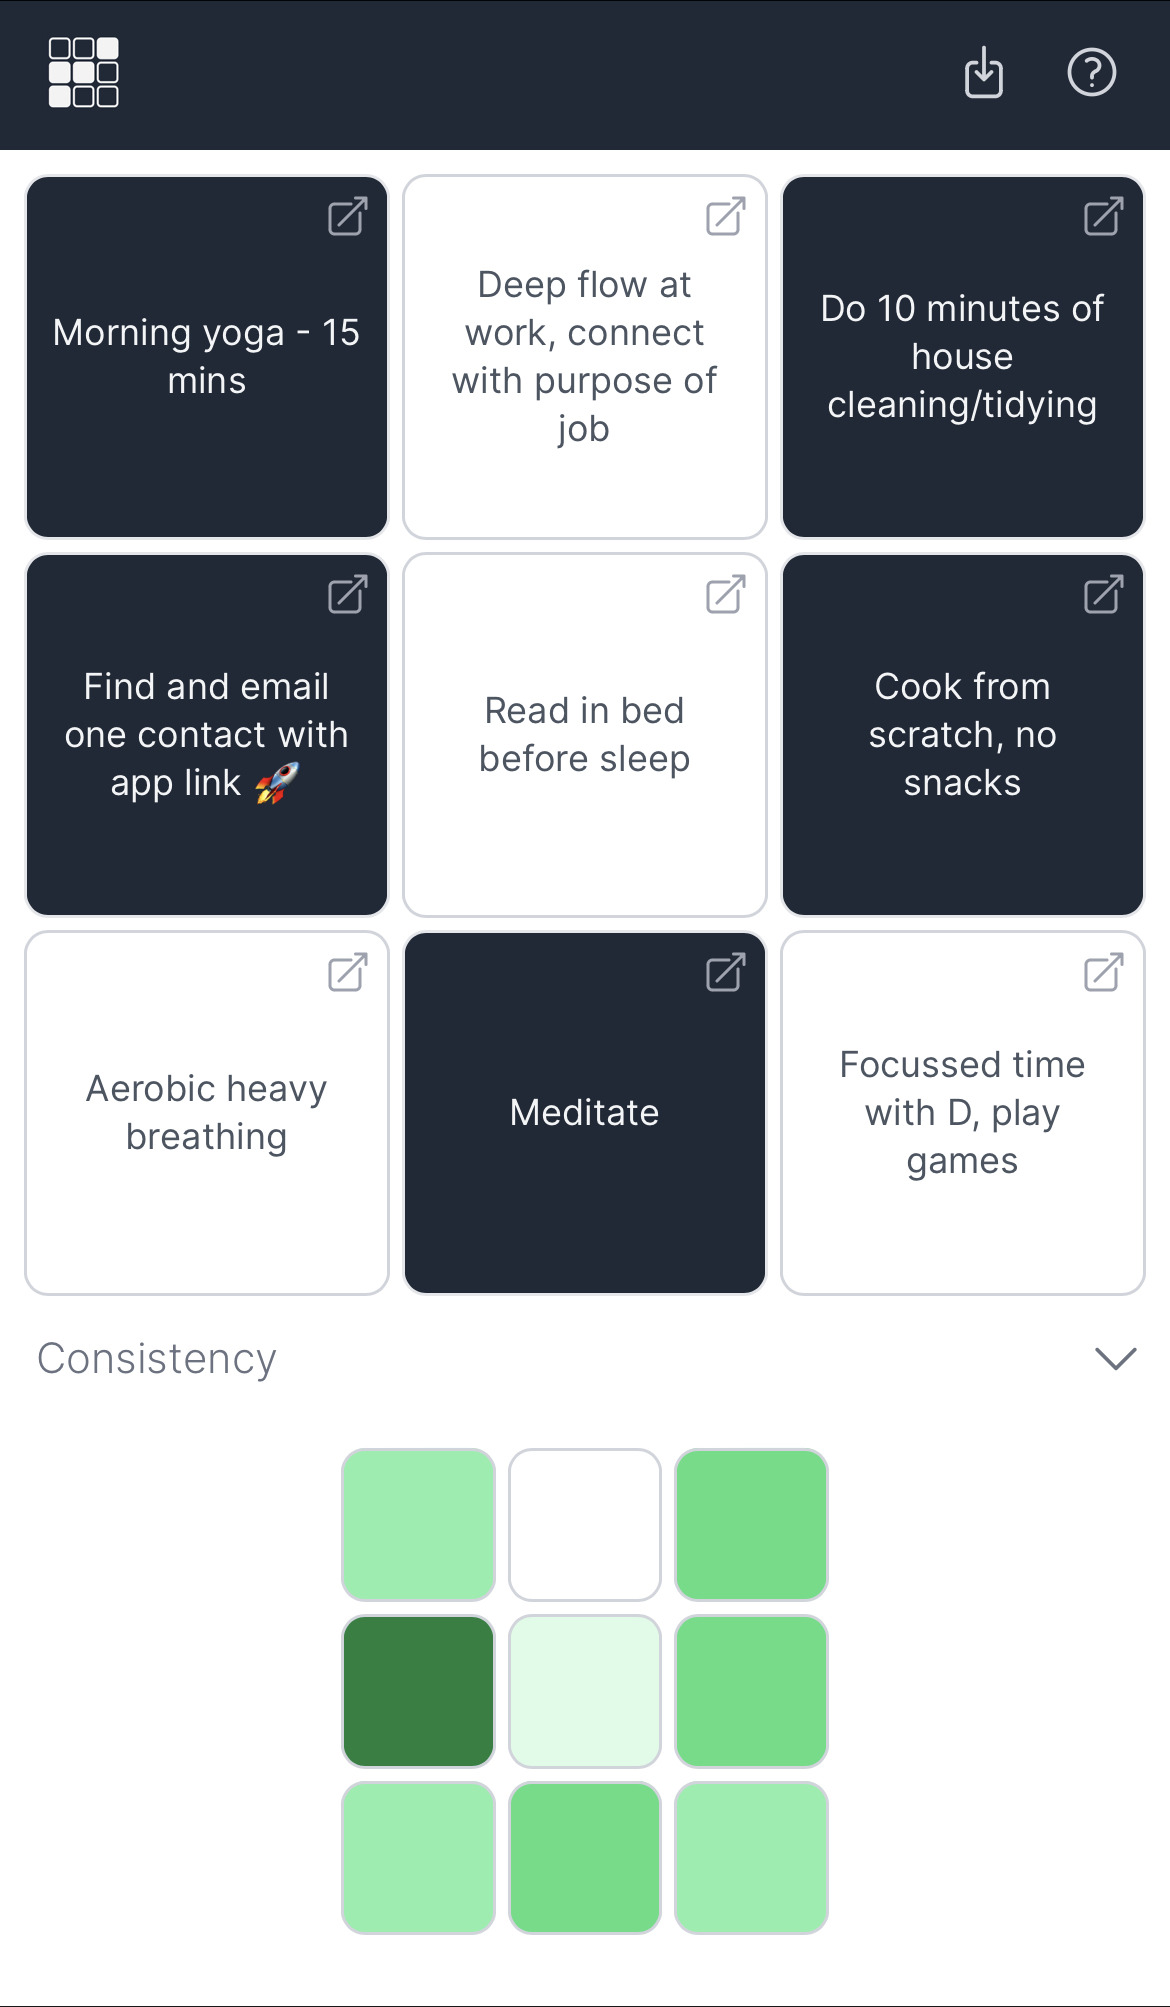
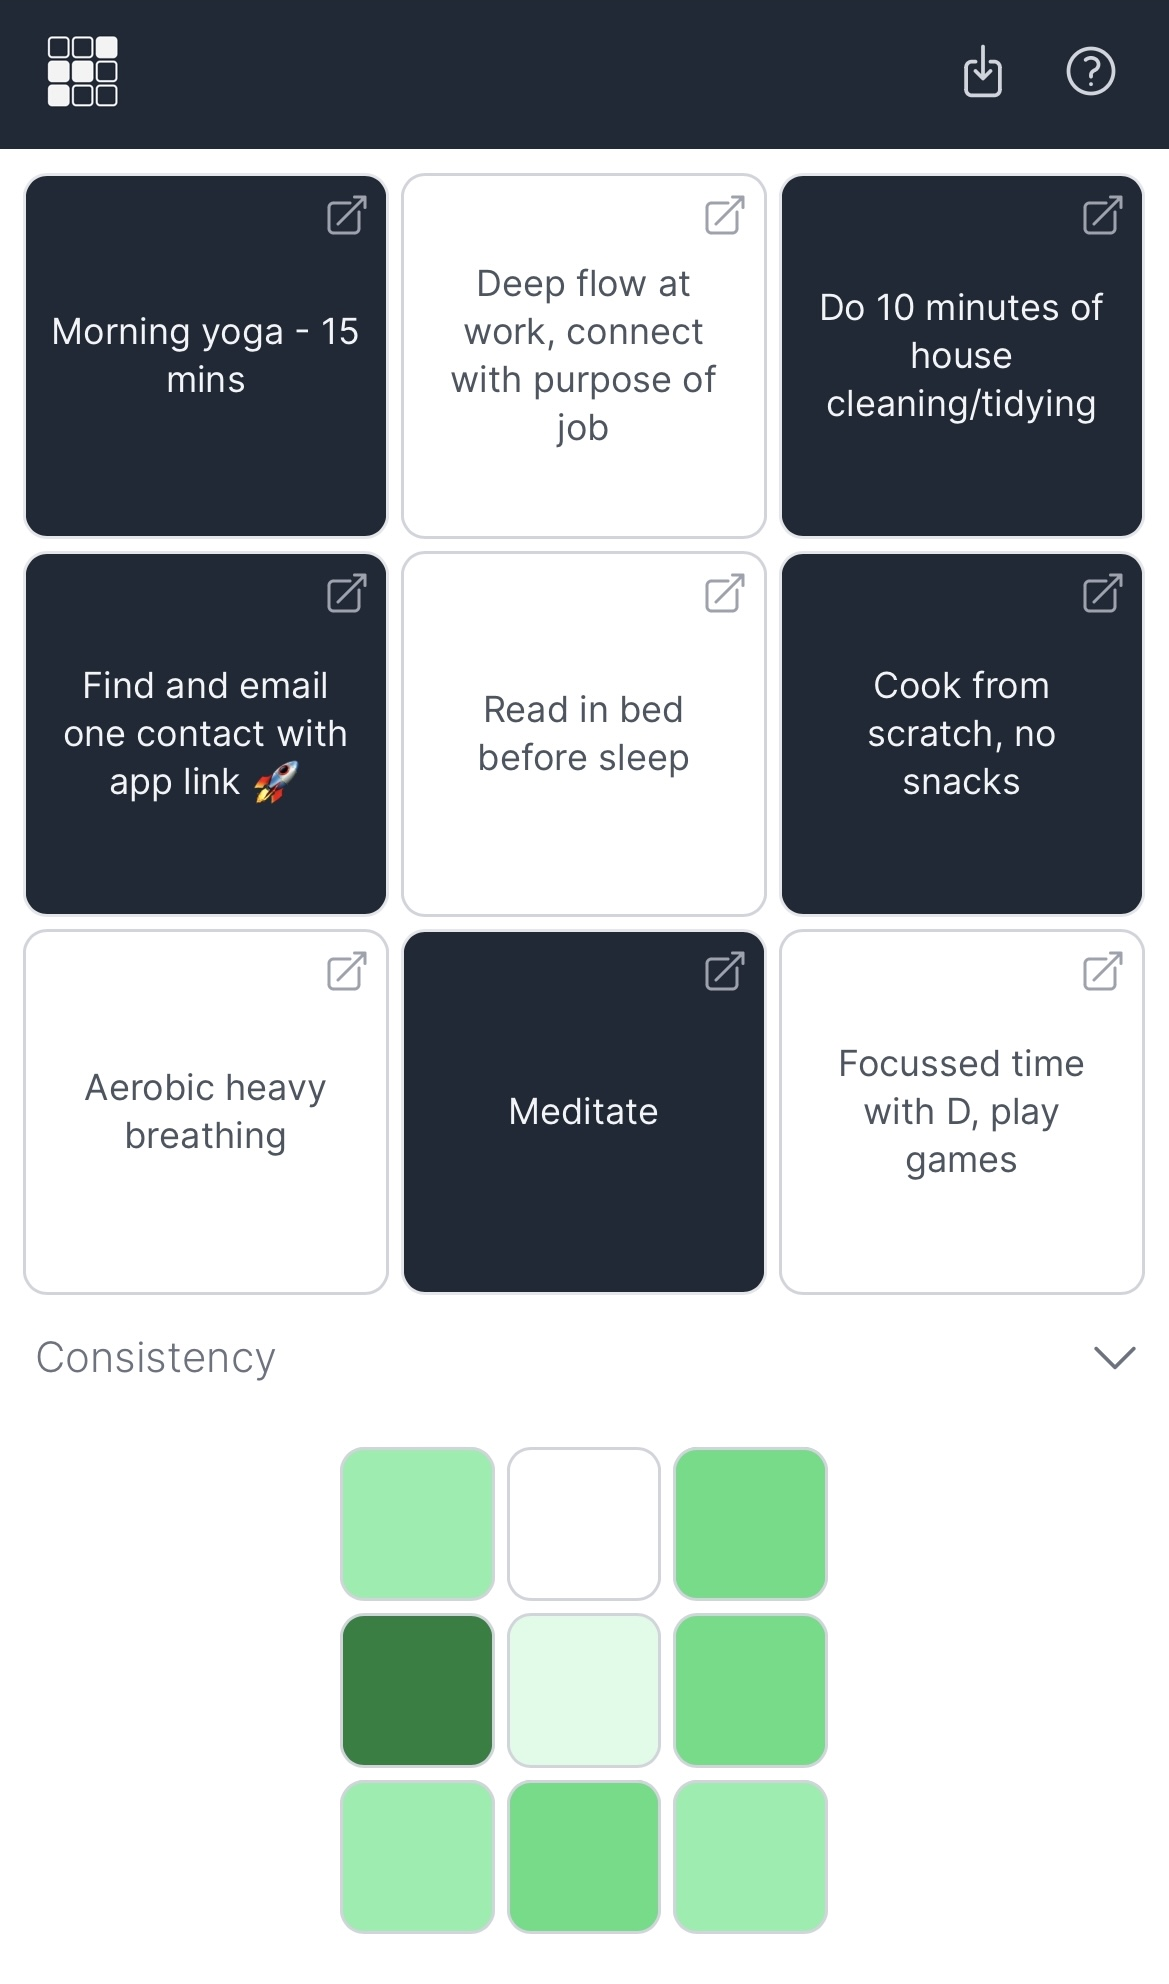
finish install tray, ui tweaks, handle error in getUser() when called from left nav signed out

diff --git a/src/components/InstallPWA.vue b/src/components/InstallPWA.vue
@@ -1,32 +1,38 @@
 <template >
-  <div class="flex flex-col justify-start  space-y-4 h-full text-sm text-gray-500 font-light">
+  <div class="text-xl text-gray-600 font-bold mb-4">Install Nine Panels as an app!</div>
+  <div class="flex flex-col justify-start  space-y-3 h-full text-sm text-gray-500 font-light">
 
-    <div class="text-xl text-gray-600 font-bold mb-4">Install Nine Panels as an app:</div>
-
+    <div class="text-gray-500 ">Easier to find. App-like experience.</div>
     <div class="flex flex-col justify-between items-center">
-      <img src="@/assets/example_install.jpg" class="h-48 border border-gray-400 rounded-xl mb-4" />
+      <img src="@/assets/example_install.jpg" class="h-48 border border-gray-400 rounded-xl mt-2 mb-2" />
     </div>
-    <div class="text-gray-500 text-">FYI: You'll need to sign in again, just like you would if you installed the app via your App or
+    <div class="text-gray-500">FYI: You'll need to sign in again, just like you would if you installed the app via your App or
       Play Store.</div>
-    <div class="text-lg text-gray-600 font-bold">Chrome:</div>
+    <div class="text-lg text-gray-600 font-bold">Chrome on iOS:</div>
     <div class="">Tap share, find the 'Add to Home Screen' button. Add the app.</div>
     <div class="flex flex-col justify-between items-center">
       <img src="@/assets/chrome_1.jpg" class="h-36 border border-gray-400 rounded-xl mb-4" />
       <img src="@/assets/chrome_2.jpg" class="h-36 border border-gray-400 rounded-xl" />
+    </div>
+    <div class="text-lg text-gray-600 font-bold">Chrome on Android:</div>
+    <div class="">Tap the ellipis top-right, find the 'Add to Home Screen' button. Add the app.</div>
+    <div class="flex flex-col justify-between items-center">
+      <img src="@/assets/android_chrome_1.png" class="h-36 border border-gray-400 rounded-xl mb-4" />
+      <img src="@/assets/android_chrome_2.png" class="h-36 border border-gray-400 rounded-xl" />
     </div>
 
     <div class="text-lg text-gray-600 font-bold">Safari:</div>
-    <div class="">Tap share, find the 'Add to Home Screen' button. Add the app.</div>
+    <div class="">Tap share on bottom menu, find the 'Add to Home Screen' button. Add the app.</div>
     <div class="flex flex-col justify-between items-center">
-      <img src="@/assets/chrome_1.jpg" class="h-36 border border-gray-400 rounded-xl mb-4" />
-      <img src="@/assets/chrome_2.jpg" class="h-36 border border-gray-400 rounded-xl" />
+      <img src="@/assets/safari_1.jpg" class="h-36 border border-gray-400 rounded-xl mb-4" />
+      <img src="@/assets/safari_2.jpg" class="h-36 border border-gray-400 rounded-xl" />
     </div>
 
     <div class="text-lg text-gray-600 font-bold">Firefox:</div>
-    <div class="">Tap share, find the 'Add to Home Screen' button. Add the app.</div>
+    <div class="">Tap menu bottom left, tap Share, find the 'Add to Home Screen' button. Add the app.</div>
     <div class="flex flex-col justify-between items-center mb-6">
-      <img src="@/assets/chrome_1.jpg" class="h-36 border border-gray-400 rounded-xl mb-4" />
-      <img src="@/assets/chrome_2.jpg" class="h-36 border border-gray-400 rounded-xl" />
+      <img src="@/assets/firefox_1.jpg" class="h-36 border border-gray-400 rounded-xl mb-4" />
+      <img src="@/assets/firefox_2.jpg" class="h-36 border border-gray-400 rounded-xl" />
     </div>
 
 

diff --git a/src/components/PasswordResetRequestForm.vue b/src/components/PasswordResetRequestForm.vue
@@ -21,14 +21,21 @@
                     is valid for ten minutes.<br /><br />The email will come from
                     <span class="">ben@ninepanels.com.</span> <br /> <br />Feel free to email me if you need any help. 👍
                 </div>
+                <div class="flex justify-between">
+                    <div class="font-semibold text-xs text-gray-500">
+                        <router-link :to=" { name: 'SignUp' }">Sign in instead</router-link>
+                    </div>
+                    <div class="font-semibold text-xs text-gray-500">
+                        <router-link :to=" { name: 'SignUp' }">Need an account?</router-link>
+                    </div>
+                </div>
             </form>
-            <div v-else class="font-bold text-lg text-gray-500 ">
+            <div v-else class="font-bold text-lg text-gray-500 mt-20">
                 An email is winging it's way to you now.
                 <div class="text-sm font-light mt-2">Click the link within ten minutes.</div>
-                <div class="text-sm font-light mt-2">See you back here soon.</div>
                 <div class="flex justify-center">
-                    <img class="h-36 mt-20 w-auto" src="@/assets/9p-logo-empty-gray-500.png"
-                        alt="9P logo" />
+                    <img class="h-36 mt-6 mb-4 w-auto rounded-2xl" src="/android-chrome-512x512.png"
+                    alt="9P logo" />
 
                 </div>
             </div>

diff --git a/src/components/PanelDetail.vue b/src/components/PanelDetail.vue
@@ -38,8 +38,8 @@
 
 
     </div>
-    <div :class="{ 'mb-2': this.Store.isPWA}">
-      <button @click="this.toggleDeleteResetBox()" class="flex w-full justify-between items-center mt-5" >
+    <div :class="{ 'mb-4': this.Store.isPWA}">
+      <button @click="this.toggleDeleteResetBox()" class="flex w-full justify-between items-center mt-5 " >
         <div class="data-heading">Danger Zone</div>
         <div>
 
@@ -48,11 +48,11 @@
         </div>
       </button>
       <div v-if="this.Store.deleteResetBoxIsOpen" >
-        <div class="text-xs text-gray-500 font-light">Need a fresh start on this panel? Reset the completion history and clear all your stats:</div>
+        <div class="text-xs text-gray-500 font-light mt-2">Need a fresh start on this panel? Reset the completion history and clear all your stats:</div>
         <DynamicButton class="mt-2 mb-2" :parentMethod="sendEntriesDelete" :buttonText="'Reset stats history'"
           :confirmRequired="true" :confirmText="'Reset all stats?'" />
         <div class="text-xs text-gray-500 font-light">Delete the entire panel, including all completion history:</div>
-        <DynamicButton class="mt-2 mb-4" :parentMethod="sendPanelDelete" :buttonText="'Delete panel'"
+        <DynamicButton class="mt-2 mb-4 " :parentMethod="sendPanelDelete" :buttonText="'Delete panel'"
           :confirmRequired="true" :confirmText="'Delete forever?'" />
       </div>
 

diff --git a/src/components/SignUpForm.vue b/src/components/SignUpForm.vue
@@ -1,5 +1,5 @@
 <template>
-    <div class="flex min-h-full flex-col justify-between px-4 py-6 mt-4  ">
+    <div class="flex min-h-full flex-col justify-between px-4   ">
 
             <div class="bg-white py-4 sm:rounded-lg sm:px-10 ">
                 <form @submit.prevent="onSubmit" class="space-y-4" action="#" method="POST">
@@ -66,10 +66,10 @@
                         little cookie being stored on your device (so you can be kept logged in between visits).</div>
                 </form>
                 <div class="flex justify-between mt-6">
-                    <div class="font-light text-xs text-gray-500">
+                    <div class="font-semibold text-xs text-gray-500">
                         <router-link :to=" { name: 'SignIn' }">Sign in instead</router-link>
                     </div>
-                    <div class="font-light text-xs text-gray-500">
+                    <div class="font-semibold text-xs text-gray-500">
                         <router-link :to=" { name: 'PasswordReset' }">Forgot your password?</router-link>
                     </div>
                 </div>

diff --git a/src/components/LeftNav.vue b/src/components/LeftNav.vue
@@ -32,7 +32,7 @@
                 <div class="flex justify-between">
 
                   <router-link @click="this.Store.leftNavIsOpen = false; this.Store.shareBoxIsOpen = false"
-                    :to="{ name: 'Landing' }"><img class="h-7 ml-5 w-auto" src="/android-chrome-512x512.png"
+                    :to="{ name: 'Landing' }"><img class="h-8 ml-5 w-auto" src="/android-chrome-512x512.png"
                       alt="9P logo" />
                   </router-link>
                   <button v-if="this.Store.isPWA" @click="reloadApp()">
@@ -104,7 +104,7 @@
             class="-ml-0.5 -mt-0.5 flex h-12 items-center   justify-center rounded-md text-gray-500 hover:text-gray-900 focus:outline-none "
             @click="this.Store.leftNavIsOpen = true">
             <span class="sr-only">Open sidebar</span>
-            <img class="h-7 ml-3 mb-1" src="/android-chrome-512x512.png" alt="9P logo" />
+            <img class="h-8 ml-3 mb-1" src="/android-chrome-512x512.png" alt="9P logo" />
           </button>
 
           <div class="mt-2.5">

diff --git a/src/components/SignInForm.vue b/src/components/SignInForm.vue
@@ -33,10 +33,10 @@
                     </div>
                 </form>
                 <div class="flex justify-between">
-                    <div class="font-light text-xs text-gray-500">
+                    <div class="font-semibold text-xs text-gray-500">
                         <router-link :to=" { name: 'SignUp' }">Need an account?</router-link>
                     </div>
-                    <div class="font-light text-xs text-gray-500">
+                    <div class="font-semibold text-xs text-gray-500">
                         <router-link :to=" { name: 'PasswordReset' }">Forgot your password?</router-link>
                     </div>
                 </div>

diff --git a/src/stores/store.js b/src/stores/store.js
@@ -113,10 +113,7 @@ export const useStore = defineStore({
                             setTimeout(() => this.messages.shift(), 5000)
                         }
                     })
-            } else {
-                this.messages.push({ message: "There's an issue with your credentials... 😬", error: true })
-                setTimeout(() => this.messages.shift(), 5000)
-            }
+            } 
         },
         async createPanelAction(position, title, description) {
             const access_token = VueCookies.get("9p_access_token")

diff --git a/src/components/PrimaryTray.vue b/src/components/PrimaryTray.vue
@@ -26,7 +26,7 @@
                   </div>
 
                   <div v-if="this.Store.primaryTrayIsOpen && this.Store.primaryComponentName"
-                    class="relative mt-4 flex-1 px-4 pt-1 mb-6 sm:px-6 overflow-auto">
+                    class="relative mt-4 flex-1 px-4 pt-1 mb-4 sm:px-6 overflow-auto">
                     <component :is="this.Store.primaryComponentName" v-bind="this.Store.primaryComponentProps" />
                   </div>
 

diff --git a/src/assets/css/custom.css b/src/assets/css/custom.css
@@ -48,7 +48,7 @@
 }
 
 @keyframes visgrid-bounce {
-  0%, 100% {
+  0%, 25%, 100% {
     transform: translateY(0);
     animation-timing-function: cubic-bezier(0.8, 1, 1, 1);
   }
